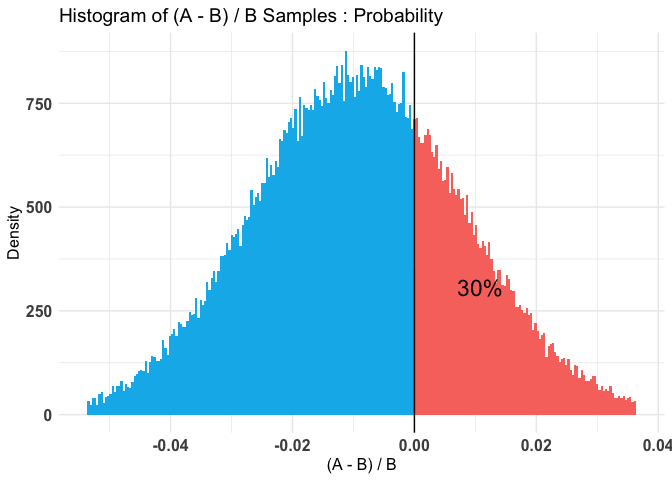
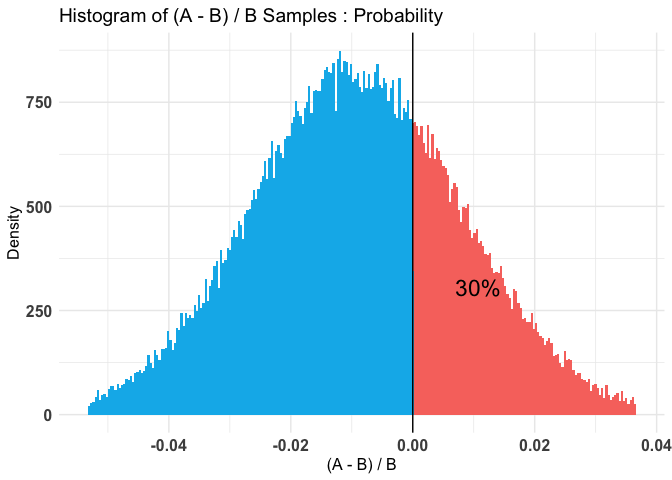
modified post

diff --git a/_posts/2019-10-15-experimental-analysis.md b/_posts/2019-10-15-experimental-analysis.md
@@ -1,6 +1,5 @@
 Statistical Data Analysis
 ================
-Victor Huang
 
 ## Bayesian Approach for Experimental Analysis
 
@@ -143,11 +142,11 @@ summary(test1)
     ## $Probability
     ## $Probability$A
     ##        0%       25%       50%       75%      100% 
-    ## 0.2692381 0.2840434 0.2868777 0.2897204 0.3055014 
+    ## 0.2701781 0.2840757 0.2868822 0.2897004 0.3062267 
     ## 
     ## $Probability$B
     ##        0%       25%       50%       75%      100% 
-    ## 0.2770267 0.2876030 0.2895521 0.2915158 0.3019673 
+    ## 0.2772039 0.2876072 0.2895479 0.2915118 0.3017223 
     ## 
     ## 
     ## --------------------------------------------
@@ -155,7 +154,7 @@ summary(test1)
     ## P(A > B) by (0)%: 
     ## 
     ## $Probability
-    ## [1] 0.29994
+    ## [1] 0.30012
     ## 
     ## --------------------------------------------
     ## 
@@ -163,14 +162,14 @@ summary(test1)
     ## 
     ## $Probability
     ##          5%         95% 
-    ## -0.03788876  0.01994472 
+    ## -0.03778547  0.01995410 
     ## 
     ## --------------------------------------------
     ## 
     ## Posterior Expected Loss for choosing B over A:
     ## 
     ## $Probability
-    ## [1] 0.01286343
+    ## [1] 0.01281577
 
 ``` r
 plot(test1)
@@ -251,11 +250,11 @@ summary(test2)
     ## $Probability
     ## $Probability$A
     ##        0%       25%       50%       75%      100% 
-    ## 0.2693968 0.2840221 0.2868448 0.2896979 0.3070921 
+    ## 0.2694415 0.2840627 0.2868744 0.2896816 0.3064154 
     ## 
     ## $Probability$B
     ##        0%       25%       50%       75%      100% 
-    ## 0.2770893 0.2876066 0.2895430 0.2914831 0.3012702 
+    ## 0.2764923 0.2876103 0.2895476 0.2915101 0.3036031 
     ## 
     ## 
     ## --------------------------------------------
@@ -263,7 +262,7 @@ summary(test2)
     ## P(A > B) by (0)%: 
     ## 
     ## $Probability
-    ## [1] 0.29789
+    ## [1] 0.2982
     ## 
     ## --------------------------------------------
     ## 
@@ -271,14 +270,14 @@ summary(test2)
     ## 
     ## $Probability
     ##          5%         95% 
-    ## -0.03781783  0.01977947 
+    ## -0.03754683  0.01965748 
     ## 
     ## --------------------------------------------
     ## 
     ## Posterior Expected Loss for choosing B over A:
     ## 
     ## $Probability
-    ## [1] 0.01285603
+    ## [1] 0.01283927
 
 ``` r
 plot(test2)

diff --git a/aboutme.md b/aboutme.md
@@ -1,7 +1,7 @@
 ---
 layout: page
 title: About Victor
-subtitle: _Data scientist_ and aspiring _Statistician_
+subtitle: --Data scientist-- and aspiring --Statistician--
 ---
 
 ### Introduction
@@ -18,11 +18,11 @@ And
 
 
 ### Work
-- Los Angeles Capital Management           Los Angeles, CA, USA.
- -Research Analyst (Intern)                July 2018 – December 2018
+- Los Angeles Capital Management,           Los Angeles, CA, USA.
+  - Research Analyst (Intern)              July 2018 – December 2018
 
-- Ritual.co                                Toronto, ON
- - Data Scientist                           February 2019 – Present
+- Ritual.co,                                Toronto, ON
+  - Data Scientist                         February 2019 – Present
 
 ### Education
 
